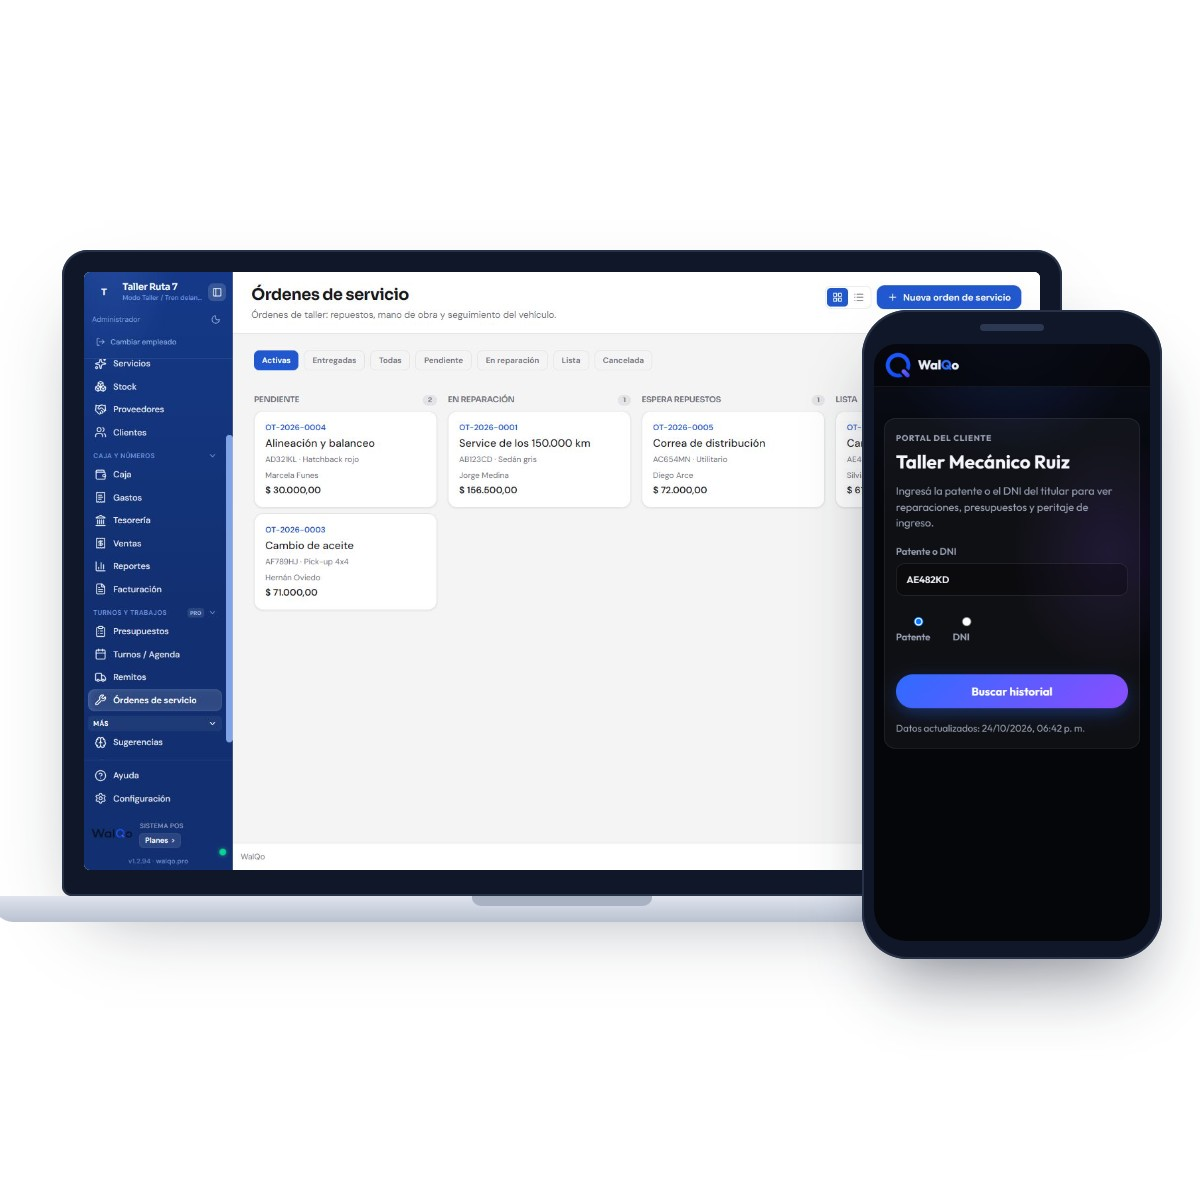
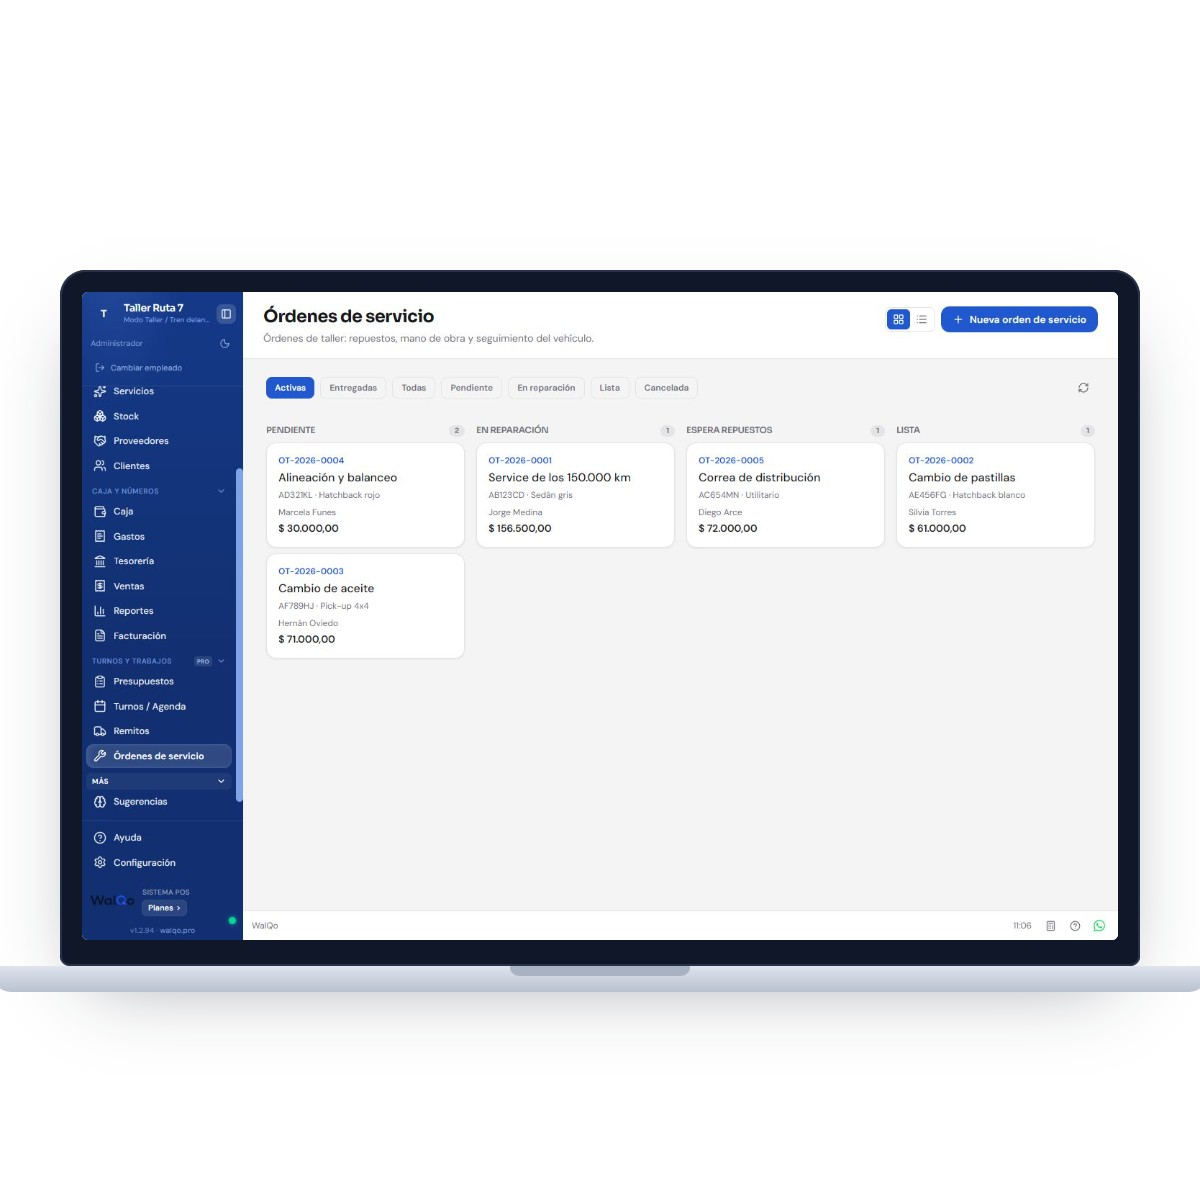
Mercado Libre: fotos nuevas para reactivar taller y ferretería

Changed region(s): [[0.0, 0.185, 1.0, 0.8633]]

diff --git a/project-context.md b/project-context.md
@@ -99,4 +99,5 @@ Carpetas: apps, branding, docs, public, scripts, src, src-tauri, tests, updater,
 - 2026-10-25 — En Mercado Libre cada rubro tiene su propio «Modelo» (por ejemplo «WalQo Completo Kiosco»): si dos publicaciones comparten marca y modelo, Mercado Libre las junta en una misma ficha y compiten entre sí («Perdiendo»). Cambiar el modelo no alcanza para separarlas, así que kiosco, ferretería y peluquería se volvieron a publicar con las mismas fotos aprobadas, se cerraron las viejas y sus videos se pasaron a las nuevas. Las fotos que Mercado Libre marcó como no relacionadas ya las quitó Mercado Libre y no se volvieron a subir.
 - 2026-10-27 — Los videos de ayuda (instalar en la PC, primer ingreso, cargar un producto, vender, Tienda Nube e iPhone) están en walqo.pro/guias, que ahora aparece en Google y tiene link desde el pie del inicio, Recursos y Cómo funciona. En Cómo funciona, cada paso muestra su video: instalar, cargar un producto y hacer una venta.
 - 2026-10-27 — Descuento por cantidad: en cada producto se pueden cargar hasta 5 escalones («desde 2 kg, 15% off»). La caja aplica sola el escalón más alto que se alcanza y el cajero lo puede cambiar o sacar; si lo toca, ya no se recalcula. Los escalones no pasan solos de una caja a otra: en un local con varias PCs hay que cargarlos en cada una.
+- 2026-10-28 — Mercado Libre pausó ferretería y taller por las fotos. En la portada no puede haber textos ni logos: va solo la captura sobre fondo blanco. Si Mercado Libre marca todas las fotos de una publicación como «no relacionadas», la pausa; se vuelve a activar subiendo fotos nuevas.
 <!-- walplan:decisions:end -->
